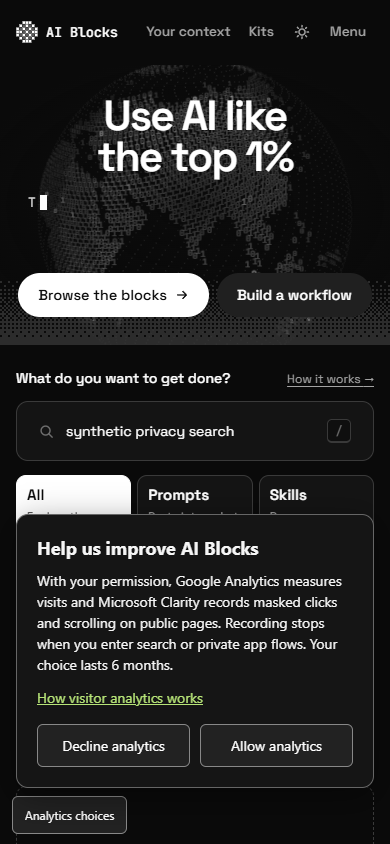
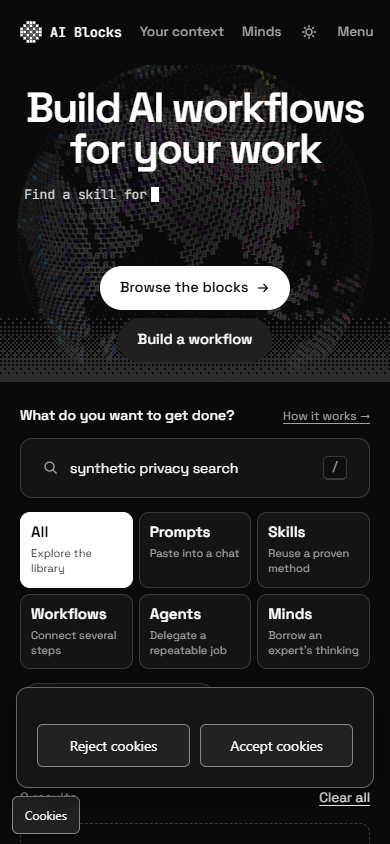
Restore original homepage copy and simplify cookie choices

diff --git a/site/public/analytics.js b/site/public/analytics.js
@@ -99,19 +99,14 @@
   function preferences() {
     if (document.getElementById('abb-analytics-choice')) return;
     const box = document.createElement('section'); box.id = 'abb-analytics-choice';
-    box.setAttribute('role', 'dialog'); box.setAttribute('aria-label', 'Visitor analytics choices');
-    const title = document.createElement('h2'); title.textContent = 'Help us improve AI Blocks';
-    const text = document.createElement('p');
-    text.textContent = 'With your permission, Google Analytics measures visits and Microsoft Clarity records masked clicks and scrolling on public pages. Recording stops when you enter search or private app flows. Your choice lasts 6 months.';
-    const privacy = document.createElement('a'); privacy.href = '/analytics-privacy.html'; privacy.textContent = 'How visitor analytics works';
+    box.setAttribute('role', 'dialog'); box.setAttribute('aria-label', 'Cookie choices');
     const actions = document.createElement('div'); actions.className = 'abb-analytics-actions';
-    for (const [label, value] of [['Decline analytics', 'denied'], ['Allow analytics', 'granted']]) {
+    for (const [label, value] of [['Reject cookies', 'denied'], ['Accept cookies', 'granted']]) {
       const button = document.createElement('button'); button.type = 'button'; button.textContent = label;
       button.disabled = value === 'granted' && optedOut;
       button.addEventListener('click', () => decide(value)); actions.appendChild(button);
     }
-    box.append(title, text, privacy, actions);
-    if (optedOut) { const note = document.createElement('p'); note.textContent = 'Your browser’s privacy signal has disabled optional tracking.'; box.appendChild(note); }
+    box.appendChild(actions);
     document.body.appendChild(box);
   }
   function boot() {
@@ -119,7 +114,7 @@
     const style = document.createElement('style');
     style.textContent = '#abb-analytics-choice{position:fixed;bottom:56px;left:16px;z-index:2147483000;box-sizing:border-box;width:min(440px,calc(100vw - 32px));max-height:75vh;overflow:auto;background:#151515;color:#f6f6f6;border:1px solid #666;border-radius:12px;padding:20px;box-shadow:0 8px 32px #0006;font:14px/1.5 system-ui,sans-serif}#abb-analytics-choice h2{font-size:18px;margin:0 0 8px}#abb-analytics-choice p{margin:0 0 12px}#abb-analytics-choice a{color:#b6e477;text-decoration:underline}.abb-analytics-actions{display:flex;gap:10px;margin-top:16px}.abb-analytics-actions button,#abb-analytics-settings{font:inherit;cursor:pointer;border:1px solid #888;border-radius:6px;background:#222;color:#fff;padding:10px 12px}.abb-analytics-actions button{flex:1}.abb-analytics-actions button:disabled{opacity:.5;cursor:default}#abb-analytics-settings{position:fixed;bottom:10px;left:12px;z-index:2147482999;font:12px system-ui,sans-serif}#abb-analytics-choice button:focus-visible,#abb-analytics-settings:focus-visible,#abb-analytics-choice a:focus-visible{outline:3px solid #b6e477;outline-offset:3px}';
     document.head.appendChild(style);
-    const settings = document.createElement('button'); settings.id = 'abb-analytics-settings'; settings.type = 'button'; settings.textContent = 'Analytics choices'; settings.addEventListener('click', preferences); document.body.appendChild(settings);
+    const settings = document.createElement('button'); settings.id = 'abb-analytics-settings'; settings.type = 'button'; settings.textContent = 'Cookies'; settings.addEventListener('click', preferences); document.body.appendChild(settings);
     if (!choice && !optedOut && safeHere()) preferences();
     if (optedOut) forgetCookies(); else start();
   }

diff --git a/site/e2e/site.spec.ts b/site/e2e/site.spec.ts
@@ -25,8 +25,8 @@ const WORKFLOW = "review-image-ads";
 
 test("hero is the headline, the mono subhead, and two buttons, How it works a plain nav link, over the globe", async ({ page }) => {
   await page.goto("/");
-  await expect(page.getByRole("heading", { level: 1 })).toHaveText("Build AI workflows for your work");
-  await expect(page.locator(".hero .lede")).toContainText("Find a skill for your next task");
+  await expect(page.getByRole("heading", { level: 1 })).toHaveText("Use AI like the top 1%");
+  await expect(page.locator(".hero .lede")).toContainText("Turn hours of work into minutes");
   expect(await page.locator(".hero .lede").evaluate((el) => getComputedStyle(el).fontFamily)).toContain("JetBrains Mono");
   await expect(page.locator(".hero").getByRole("link")).toHaveText(["Browse the blocks", "Build a workflow"]);
   await expect(page.locator(".hero-in > *")).toHaveCount(3);

diff --git a/site/src/App.tsx b/site/src/App.tsx
@@ -402,8 +402,8 @@ function Home({ c, toast }: { c: Catalogue | null; toast: (m: string) => void })
       <section className="hero">
         <Suspense fallback={null}><Globe /></Suspense>
         <div className="wrap hero-in">
-          <h1 className="h1">Build AI workflows for your work</h1>
-          <Typewriter text="Find a skill for your next task, or connect several into a workflow. Edit the steps, download the pack and run it in your own AI." />
+          <h1 className="h1">Use AI like the top 1%</h1>
+          <Typewriter text="Turn hours of work into minutes. Spend the time you save on the work only you can do. Or at the beach (we won't tell)." />
           <div className="hero-actions">
             <Link to="/#library" className="btn btn-primary">Browse the blocks <ArrowIcon /></Link>
             <Link to="/#build" className="btn btn-dark">Build a workflow</Link>

diff --git a/site/e2e/info-pages.spec.ts b/site/e2e/info-pages.spec.ts
@@ -26,7 +26,7 @@ test("support and policies navigate without the catalogue and update page metada
   await page.goBack();
   await expect(page.getByRole("heading", { level: 1 })).toHaveText("Cookies and browser storage");
   await page.getByRole("link", { name: "AI Blocks, home", exact: true }).click();
-  await expect(page.getByRole("heading", { level: 1 })).toHaveText("Build AI workflows for your work");
+  await expect(page.getByRole("heading", { level: 1 })).toHaveText("Use AI like the top 1%");
   await expect(page).toHaveTitle("Free AI Skills & Custom Workflow Builder | AI Blocks");
 });
 
